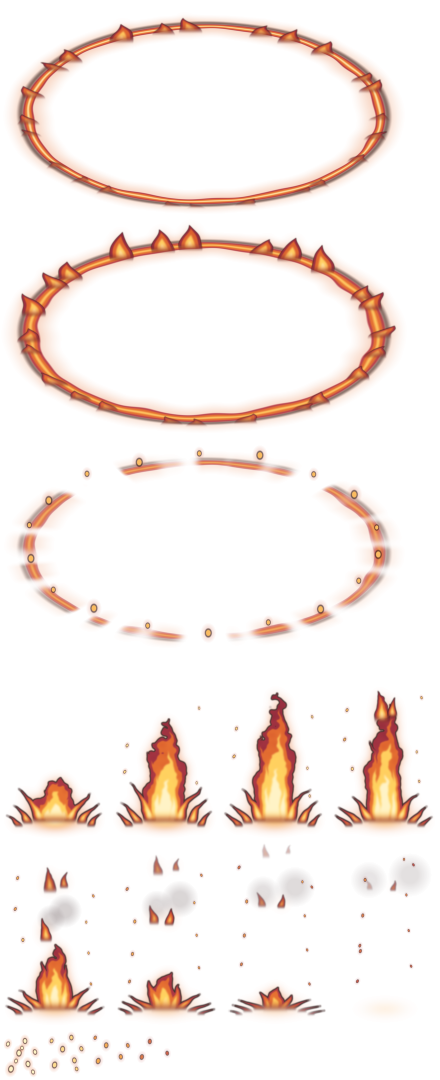
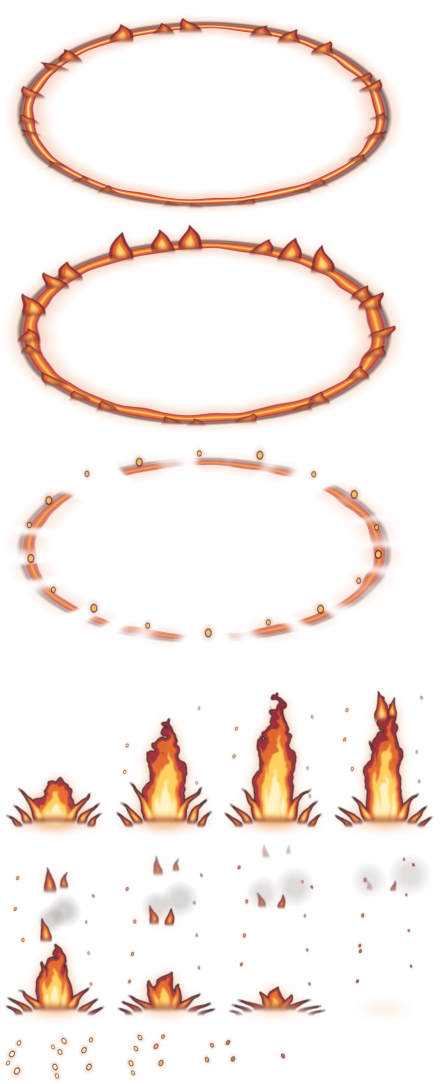
fix: the Vent's rising embers fly up beside its column instead of speckling its fire
The view centres the ember cluster on the eruption column, which still burns under it for most of its rise, so its
white-hot embers read as specks on the column's own fire. The painted cluster now keeps clear of its middle and the
embers drift outward, up either side of the column. Same cell count, frames and budget (1.59 MiB as ASTC 4x4).

diff --git a/Tools/ArtReview/build_skill_vfx.py b/Tools/ArtReview/build_skill_vfx.py
@@ -521,16 +521,17 @@ def vent_column_frame(index, noise):
 
 def vent_ember_frame(index):
     """The embers an eruption throws up, which the view sends rising: hot as they leave, then cooling to crimson and
-    thinning out, each frame a little higher."""
-    frame = Frame(-0.24, -0.24, 0.24, 0.38, VENT_TPU)
+    thinning out, each frame a little higher and further out. The view centres them on the column, which still burns
+    under them, so they keep clear of its middle and fly up either side of it rather than speckling its fire."""
+    frame = Frame(-0.4, -0.26, 0.4, 0.42, VENT_TPU)
     cool = index / (VENT_EMBER_FRAMES - 1)
-    seeds = ((-0.11, -0.1, 1.0), (0.06, -0.05, 0.75), (-0.03, 0.06, 0.9), (0.13, 0.07, 0.55), (-0.14, 0.15, 0.45),
-             (0.03, 0.18, 0.65), (0.11, -0.13, 0.4), (-0.06, -0.02, 0.35), (0.0, 0.11, 0.3))
+    seeds = ((-0.2, -0.1, 1.0), (0.18, -0.06, 0.8), (-0.25, 0.07, 0.9), (0.23, 0.09, 0.6), (-0.18, 0.18, 0.5),
+             (0.27, 0.2, 0.7), (0.2, -0.15, 0.45), (-0.29, -0.02, 0.35), (0.16, 0.14, 0.3))
     for k, (x, y, size) in enumerate(seeds):
         if k >= len(seeds) - 2 * index:
             continue  # thinning out as they cool
         lift = 0.04 * index * (0.6 + 0.4 * size)
-        drift = 0.014 * index * (1 if k % 2 else -1)
+        drift = 0.02 * index * (1 if x > 0 else -1)
         hot = max(0.0, 1.0 - cool * (0.8 + 0.35 * (1.0 - size)))
         paint_ember(frame, x + drift, y + lift, (0.008 + 0.011 * size) * (1.0 - 0.25 * cool), hot, stretch=1.35,
                     angle=90 + 25 * (x * 5))
